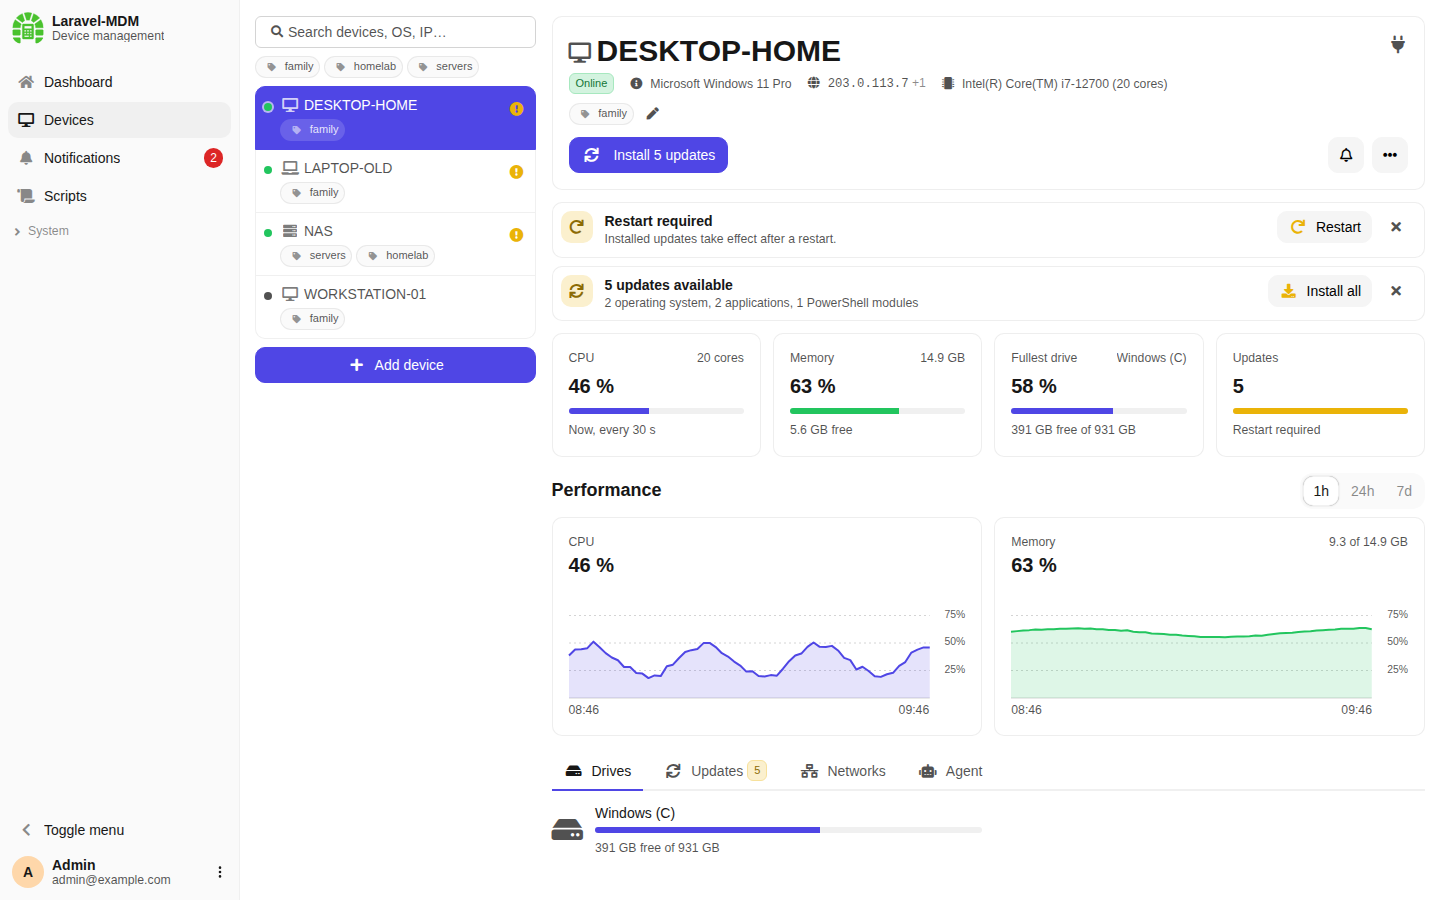
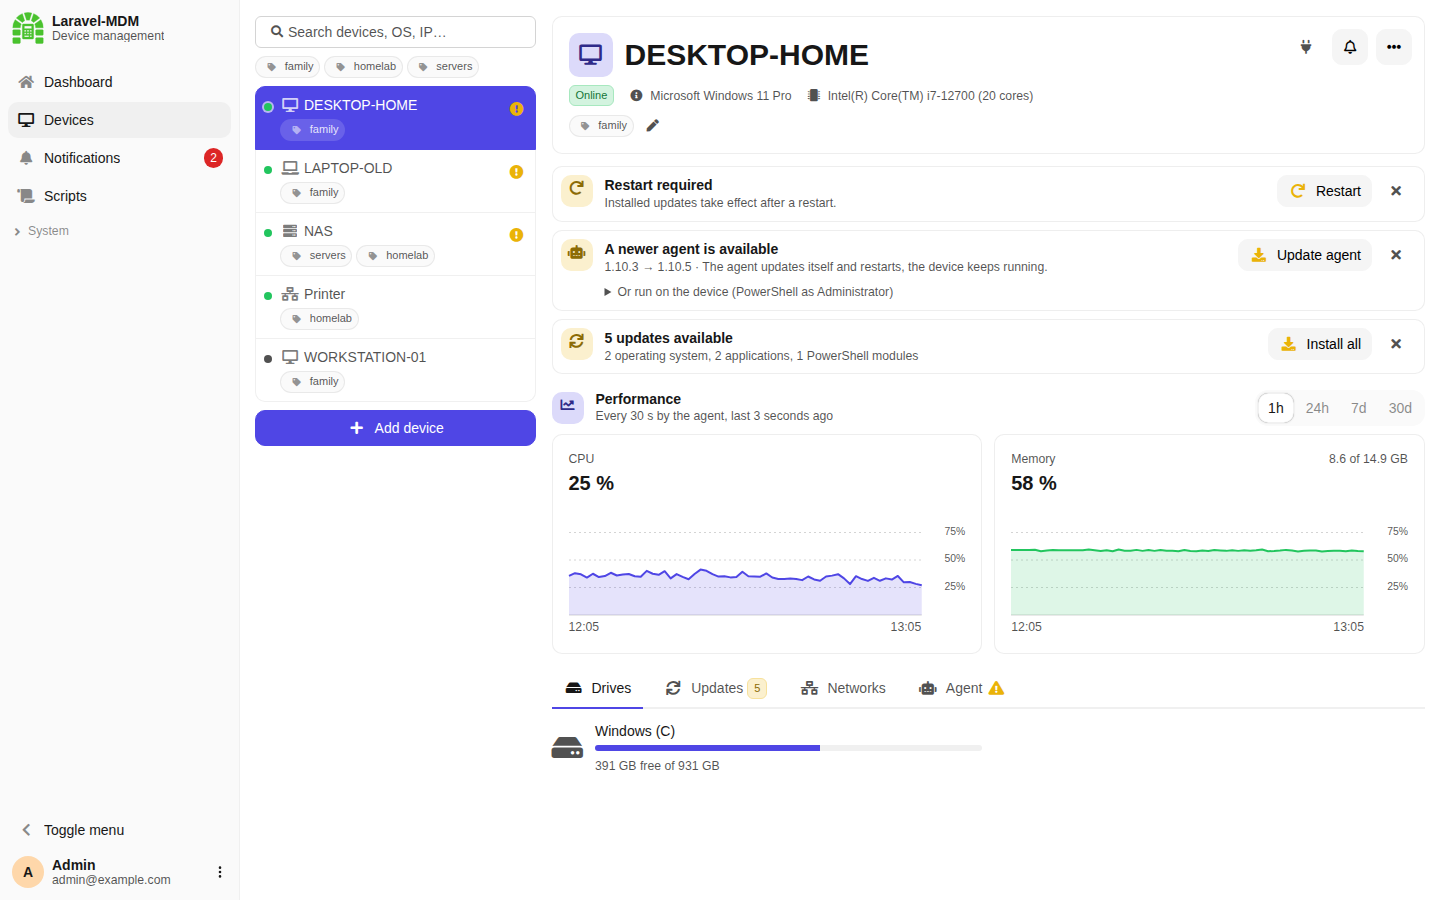
README: screenshots of the current UI, a ping-only device
Claude-Session: https://claude.ai/code/session_01H92WE7gxTnRhVeMMvhc3Eq

diff --git a/README.md b/README.md
@@ -40,9 +40,13 @@ kept in the `storage` volume. For access from outside your network put it behind
 
 ## Screenshots
 
-Devices: the list (search, tags, online state, what needs attention) beside the detail with actions, summary, CPU/memory history and tabs:
+Devices: the list (search, tags, online state, what needs attention) beside the detail with its alerts, CPU/memory history (1h to 30d) and tabs:
 
 ![Device detail](docs/screenshots/device.png)
+
+A ping-only device (a printer, a NAS without the agent): an agent in its network pings it every 30 s and wakes it with Wake-on-LAN:
+
+![Ping-only device](docs/screenshots/ping.png)
 
 Notifications: firing alerts, rules and channels (ntfy, Discord, Telegram, e-mail, …):
 
